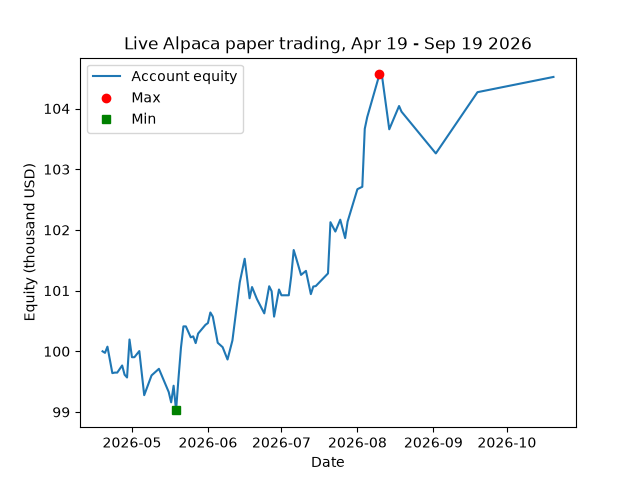
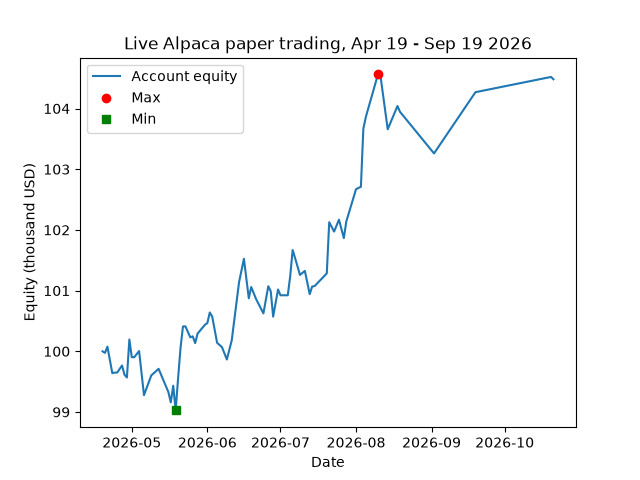
Reconstruct the equity record from Alpaca instead of relying on the push
paper_trader.py writes the day's equity point, but keeping it depended on the
scheduled session completing a git push. That push fails with 403 when the
repository is not among the firing session's authorized sources, and since the
container is reclaimed afterwards the point is lost for good: the 2026-10-21
run traded correctly, wrote its row and committed it, and the row still never
reached the repository.

Alpaca already stores daily account equity, so the record is reconstructable
and the push stops being the only path. sync_equity_snapshots.py fills the
gaps from /v2/account/portfolio/history, never overwriting a date already
present, and skips today because its bar is not a close yet. Default fills
forward from the last row; --all densifies the whole available window.

Backfilled 2026-10-21 at $104,482.13, the broker's close. The run that day
had read $104,358.92 intraday before the push failed.

Claude-Session: https://claude.ai/code/session_0167fhiVpASuFAQAnMhmWGzD

diff --git a/src/sync_equity_snapshots.py b/src/sync_equity_snapshots.py
@@ -1,0 +1,118 @@
+#!/usr/bin/env python3
+"""
+sync_equity_snapshots.py
+========================
+
+Rellena results/paper-trading/equity_snapshots.csv desde el historial de la
+cuenta en Alpaca.
+
+Por qué existe: paper_trader.py escribe el punto del día, pero conservarlo
+dependía de que la sesión diaria lograra hacer `git push`. Cuando el push
+falla (403 del proxy si el repo no está en las fuentes de esa sesión), el
+contenedor se recicla y el dato se pierde para siempre.
+
+Alpaca ya guarda el equity diario, así que el registro es reconstruible y el
+push deja de ser el único camino: si falla, esto lo pone al día después.
+
+    python sync_equity_snapshots.py              # rellena desde la última fila
+    python sync_equity_snapshots.py --all        # densifica todo lo disponible
+    python sync_equity_snapshots.py --dry-run    # solo muestra qué agregaría
+
+Nunca sobrescribe una fecha que ya está en el CSV: solo agrega las que faltan.
+"""
+from __future__ import annotations
+
+import argparse
+import datetime as dt
+import os
+import sys
+from pathlib import Path
+
+import requests
+
+ET = dt.timezone(dt.timedelta(hours=-4))
+SNAPSHOT = (Path(__file__).resolve().parents[1]
+            / "results" / "paper-trading" / "equity_snapshots.csv")
+BASE = "https://paper-api.alpaca.markets"
+
+
+def broker_history(period: str = "3M") -> dict[str, float]:
+    key, sec = os.environ.get("APCA_API_KEY_ID"), os.environ.get("APCA_API_SECRET_KEY")
+    if not key or not sec:
+        sys.exit("Faltan env vars APCA_API_KEY_ID / APCA_API_SECRET_KEY")
+
+    r = requests.get(f"{BASE}/v2/account/portfolio/history",
+                     params={"period": period, "timeframe": "1D"},
+                     headers={"APCA-API-KEY-ID": key, "APCA-API-SECRET-KEY": sec},
+                     timeout=30)
+    r.raise_for_status()
+    h = r.json()
+
+    out: dict[str, float] = {}
+    for ts, eq in zip(h.get("timestamp", []), h.get("equity", [])):
+        if not eq:
+            continue
+        day = dt.datetime.fromtimestamp(ts, dt.timezone.utc).astimezone(ET).date()
+        out[day.isoformat()] = float(eq)
+    return out
+
+
+def read_csv() -> dict[str, str]:
+    rows: dict[str, str] = {}
+    if not SNAPSHOT.exists():
+        return rows
+    for line in SNAPSHOT.read_text().splitlines():
+        if not line.strip() or line.startswith("date,"):
+            continue
+        d, _, v = line.partition(",")
+        rows[d.strip()] = v.strip()
+    return rows
+
+
+def main() -> int:
+    ap = argparse.ArgumentParser()
+    ap.add_argument("--all", action="store_true",
+                    help="rellenar también huecos anteriores a la última fila")
+    ap.add_argument("--period", default="3M",
+                    help="ventana que se pide a Alpaca (1M, 3M, 1A...)")
+    ap.add_argument("--dry-run", action="store_true")
+    args = ap.parse_args()
+
+    broker = broker_history(args.period)
+    rows = read_csv()
+    if not broker:
+        print("Alpaca no devolvió historial.")
+        return 1
+
+    print(f"Alpaca: {len(broker)} días ({min(broker)} → {max(broker)})")
+    print(f"CSV:    {len(rows)} filas" + (f", última {max(rows)}" if rows else ""))
+
+    # Hoy puede estar a medio día: su barra todavía no es de cierre.
+    hoy = dt.datetime.now(ET).date().isoformat()
+    corte = max(rows) if rows and not args.all else ""
+    faltan = {d: v for d, v in broker.items()
+              if d not in rows and d > corte and d != hoy}
+
+    if not faltan:
+        print("\nNada que agregar.")
+        return 0
+
+    print(f"\n{len(faltan)} fecha(s) por agregar:")
+    for d in sorted(faltan):
+        print(f"  + {d}  ${faltan[d]:,.2f}")
+
+    if args.dry_run:
+        print("\n--dry-run: no se escribió nada.")
+        return 0
+
+    for d, v in faltan.items():
+        rows[d] = f"{v:.2f}"
+    SNAPSHOT.parent.mkdir(parents=True, exist_ok=True)
+    SNAPSHOT.write_text("date,equity\n"
+                        + "".join(f"{d},{rows[d]}\n" for d in sorted(rows)))
+    print(f"\nEscrito: {SNAPSHOT.name} con {len(rows)} filas.")
+    return 0
+
+
+if __name__ == "__main__":
+    sys.exit(main())
